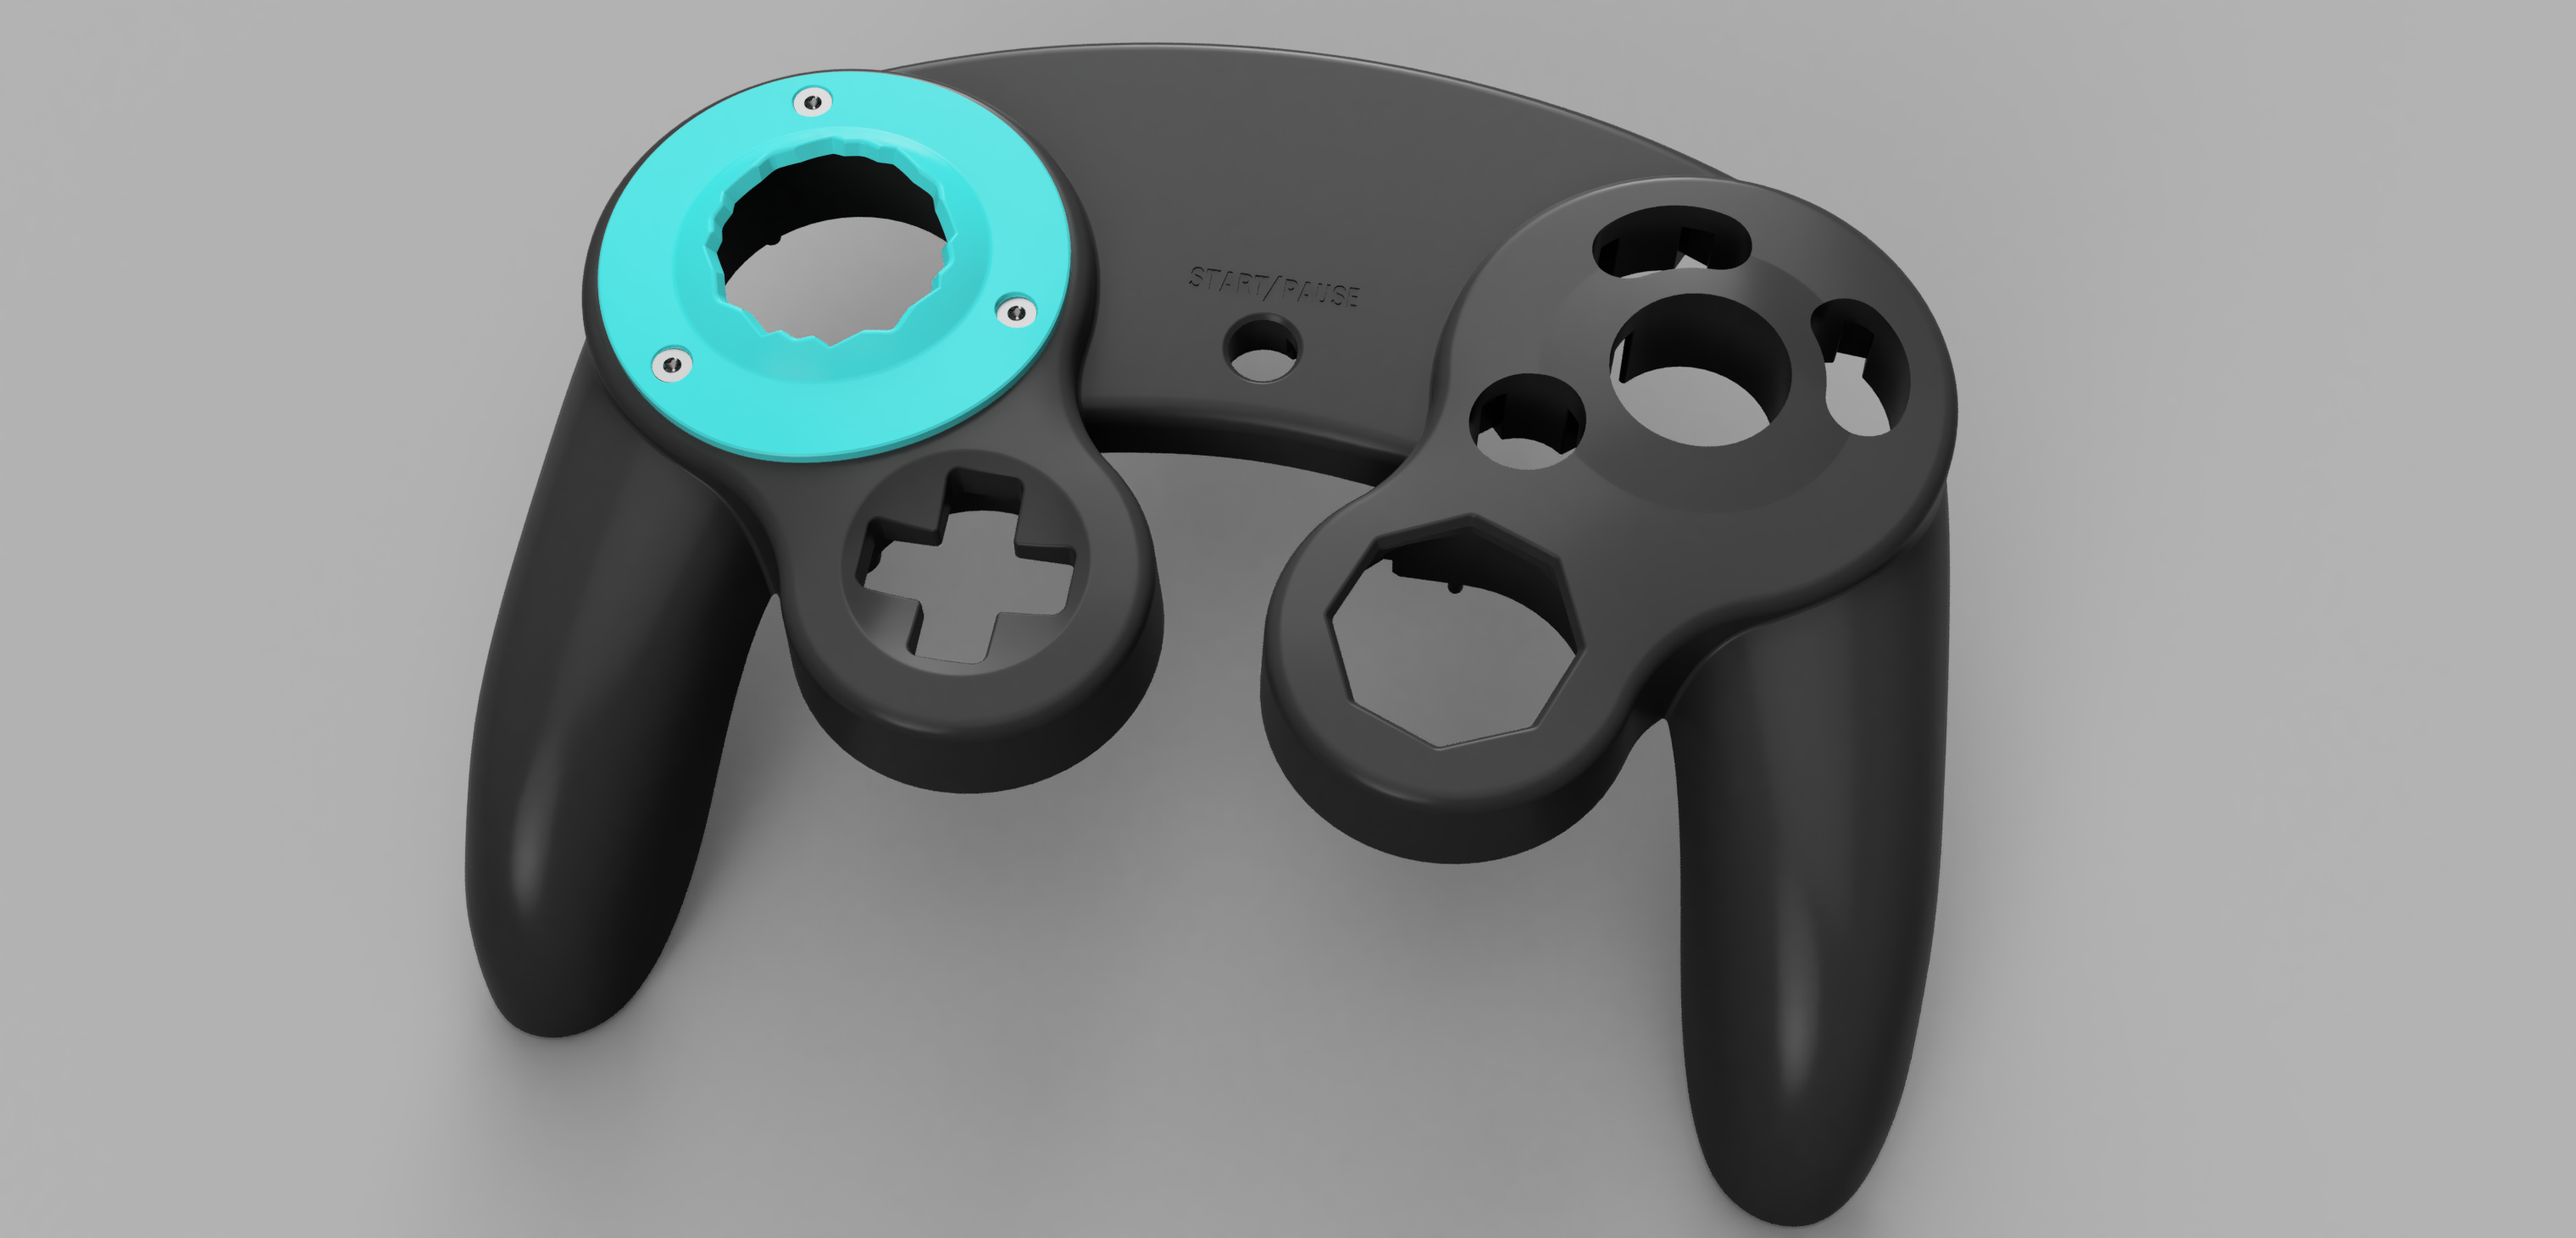
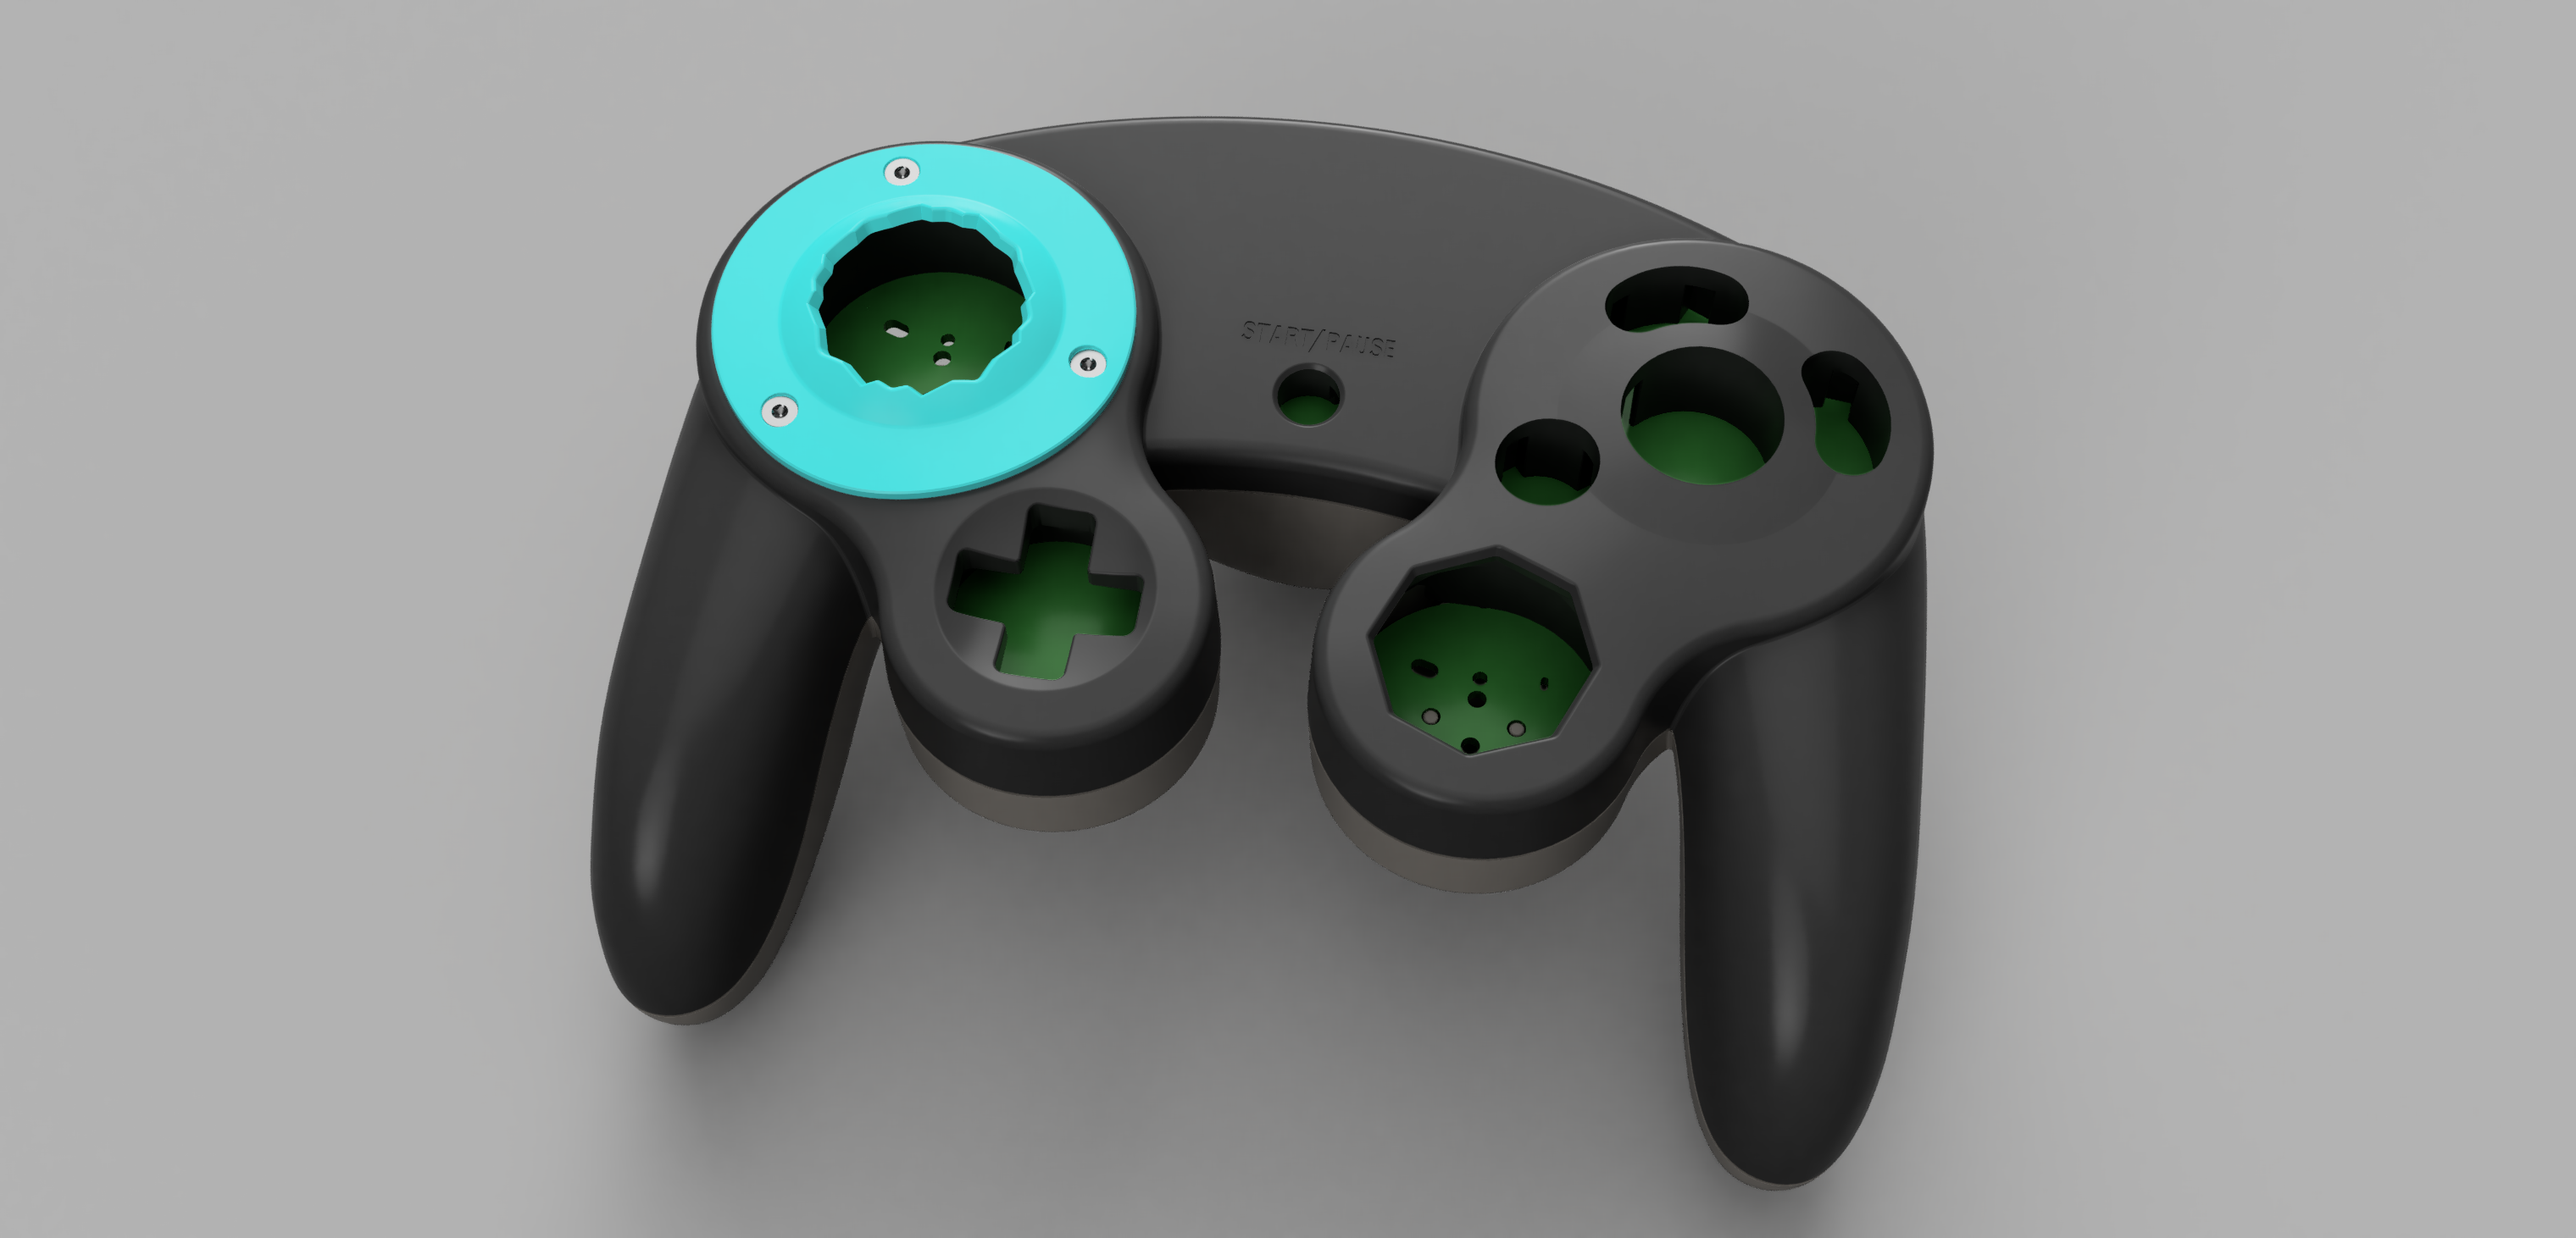
installation tutorial

Changed region(s): [[0.1562, 0.0308, 0.7812, 1.0]]

diff --git a/README.md b/README.md
@@ -2,7 +2,7 @@
 
 Removable Gate OEM is a project [based on my previous work](https://github.com/sean44104/Removable-Gate-GCC) designed to bring the removable gate system to OEM Gamecube Controller shells in the form of a small DIY kit
 
-![image](https://raw.githubusercontent.com/sean44104/Removable-Gate-OEM/main/Images/image1.PNG)
+![image](https://raw.githubusercontent.com/sean44104/Removable-Gate-OEM/main/Images/image1.png)
 
 This release contains STL, STEP, and F3D files for each part of the project. The STLs are high resolution and ready to be resin printed. You can import the F3D file into fusion360, or the STEP files into any other CAD program you like to make changes to the design as you see fit! The files feature 5 unique gateplate designs, each with their own different number of notches for you to experiment with. Additionally, the files also include what I call a **ThreadHolder** and a **DrillJig**. The ThreadHolder is a piece that will slide under the control stick area of the GCC front shell. It has slots inside that will hold the metal threads permanently inside of the shell. When you put a gateplate onto the front of your controller, the gateplate will screw into these threads and hold it firmly in place!
 
@@ -15,6 +15,8 @@ Gateplate Screws: https://www.mcmaster.com/90236A105/
 Gateplate Threads: https://www.mcmaster.com/90363A110/
 
 Where to Purchase the 3D Printed Parts: https://jlc3dp.com
+
+The Gateplate Screws are T6 Torx Screws. If you do not have a T6 Torx Screwdriver, [you can buy them anywhere](https://www.amazon.com/Screwdriver-TECKMAN-Controller-Mainboard-Electronic/dp/B08998GX65/ref=asc_df_B08998GX65)
 
 YouTube Video going over the concept and explaining how the kit works with visuals:
 https://youtu.be/-zyUboVVk4A
@@ -31,3 +33,53 @@ This design is based on, and uses the OEM GCC step file collection made by GearH
 
 ### Inside View of the ThreadHolder System
 ![image](https://raw.githubusercontent.com/sean44104/Removable-Gate-OEM/main/Images/t11.png)
+
+
+
+# Removable Gate OEM Installation Tutorial:
+<details>
+  <summary>Click to expand</summary>
+
+# Step 1
+The first thing you need to do is remove the gate material from the front shell. Remove the entire lifted circular section of the control stick gate, shown here in green. Cut off the entire lifted dome until it is flat with the rest of the front shell's surface. You can use a dremel to cut it off and then sand down the excess. Do not go deep into the shell, remove any of the inside, or take out the cylinder that extends down into the shell. Here is a front and side profile of what is to be removed:
+![image](https://raw.githubusercontent.com/sean44104/Removable-Gate-OEM/main/Images/t1.png)
+![image](https://raw.githubusercontent.com/sean44104/Removable-Gate-OEM/main/Images/t2.png)
+
+**Your shell should look like this after you are finished**
+![image](https://raw.githubusercontent.com/sean44104/Removable-Gate-OEM/main/Images/t3.png)
+![image](https://raw.githubusercontent.com/sean44104/Removable-Gate-OEM/main/Images/t4.png)
+
+# Step 2
+Next, you are going to use the DrillJig. Slide the jig into the back of the front shell so that the curved side is going down into the controller and the flat side is facing up as shown. Now, use a 3/16 inch drill bit to remove the material shown here in green:
+![image](https://raw.githubusercontent.com/sean44104/Removable-Gate-OEM/main/Images/t6.png)
+
+Once you are finished drilling it should look like this:
+![image](https://raw.githubusercontent.com/sean44104/Removable-Gate-OEM/main/Images/t5.png)
+![image](https://raw.githubusercontent.com/sean44104/Removable-Gate-OEM/main/Images/t6b.png)
+
+Here is a view from the other side:
+![image](https://raw.githubusercontent.com/sean44104/Removable-Gate-OEM/main/Images/t7.png)
+![image](https://raw.githubusercontent.com/sean44104/Removable-Gate-OEM/main/Images/t8.png)
+
+# Step 3
+Now, you are going to install the ThreadHolder. Remove the DrillJig from the controller shell and apply a small amount of glue to the flat top surface of the ThreadHolder. Then, you are going to slide it into the back of the front shell, just like the DrillJig, shown here:
+![image](https://raw.githubusercontent.com/sean44104/Removable-Gate-OEM/main/Images/t9.png)
+![image](https://raw.githubusercontent.com/sean44104/Removable-Gate-OEM/main/Images/t9b.png)
+
+Make sure to firmly press the ThreadHolder in and push it down so that the entire piece makes good contact with the back of the controller front shell
+
+# Step 4
+Take your [thread pieces](https://www.mcmaster.com/90363a110/) and push them into the containers of the ThreadHolder until they are all the way in, as shown. This may be a tight friction fit, so you can use a screwdriver to push them in by applying pressure to the center of the thread piece.
+![image](https://raw.githubusercontent.com/sean44104/Removable-Gate-OEM/main/Images/t10.png)
+
+These thread pieces are designed to expand out when [the screw](https://www.mcmaster.com/90236A105/) is threaded inside of them, embedding themselves into the ThreadHolder and locking them inside of there permanently. I recommend that for the first time, you put the screws in upside down like so. This way the threads can be expanded securely and will not fall out.
+![image](https://raw.githubusercontent.com/sean44104/Removable-Gate-OEM/main/Images/t10b.png)
+
+# Step 5
+You are basically done now! Remove the upside-down screws from their thread pieces. The front shell is complete. You can now take a Gateplate and place it onto the front face of your Gamecube Controller front shell. It has three pegs underneath it, which will slot nicely into the holes that you drilled. Now, just insert a screw into each of the three holes on the gateplate surface and they will go through the gateplate, through the front shell, and thread into the metal inserts inside of the ThreadHolder. It will look like this when you are done and everything is fully installed:
+![image](https://raw.githubusercontent.com/sean44104/Removable-Gate-OEM/main/Images/t10c.PNG)
+![image](https://raw.githubusercontent.com/sean44104/Removable-Gate-OEM/main/Images/t11.png)
+
+Now, you can assemble your controller. You will be able to remove and attach gateplates onto your controller while it is fully assembled. You do not have to take the controller apart whatsoever to remove or swap out a gateplate. Simply unscrew the Gateplate, remove the screws, and pull the Gateplate out. The internal parts will stay in place and not fall out!
+![image](https://raw.githubusercontent.com/sean44104/Removable-Gate-OEM/main/Images/t12.png)
+</details>
